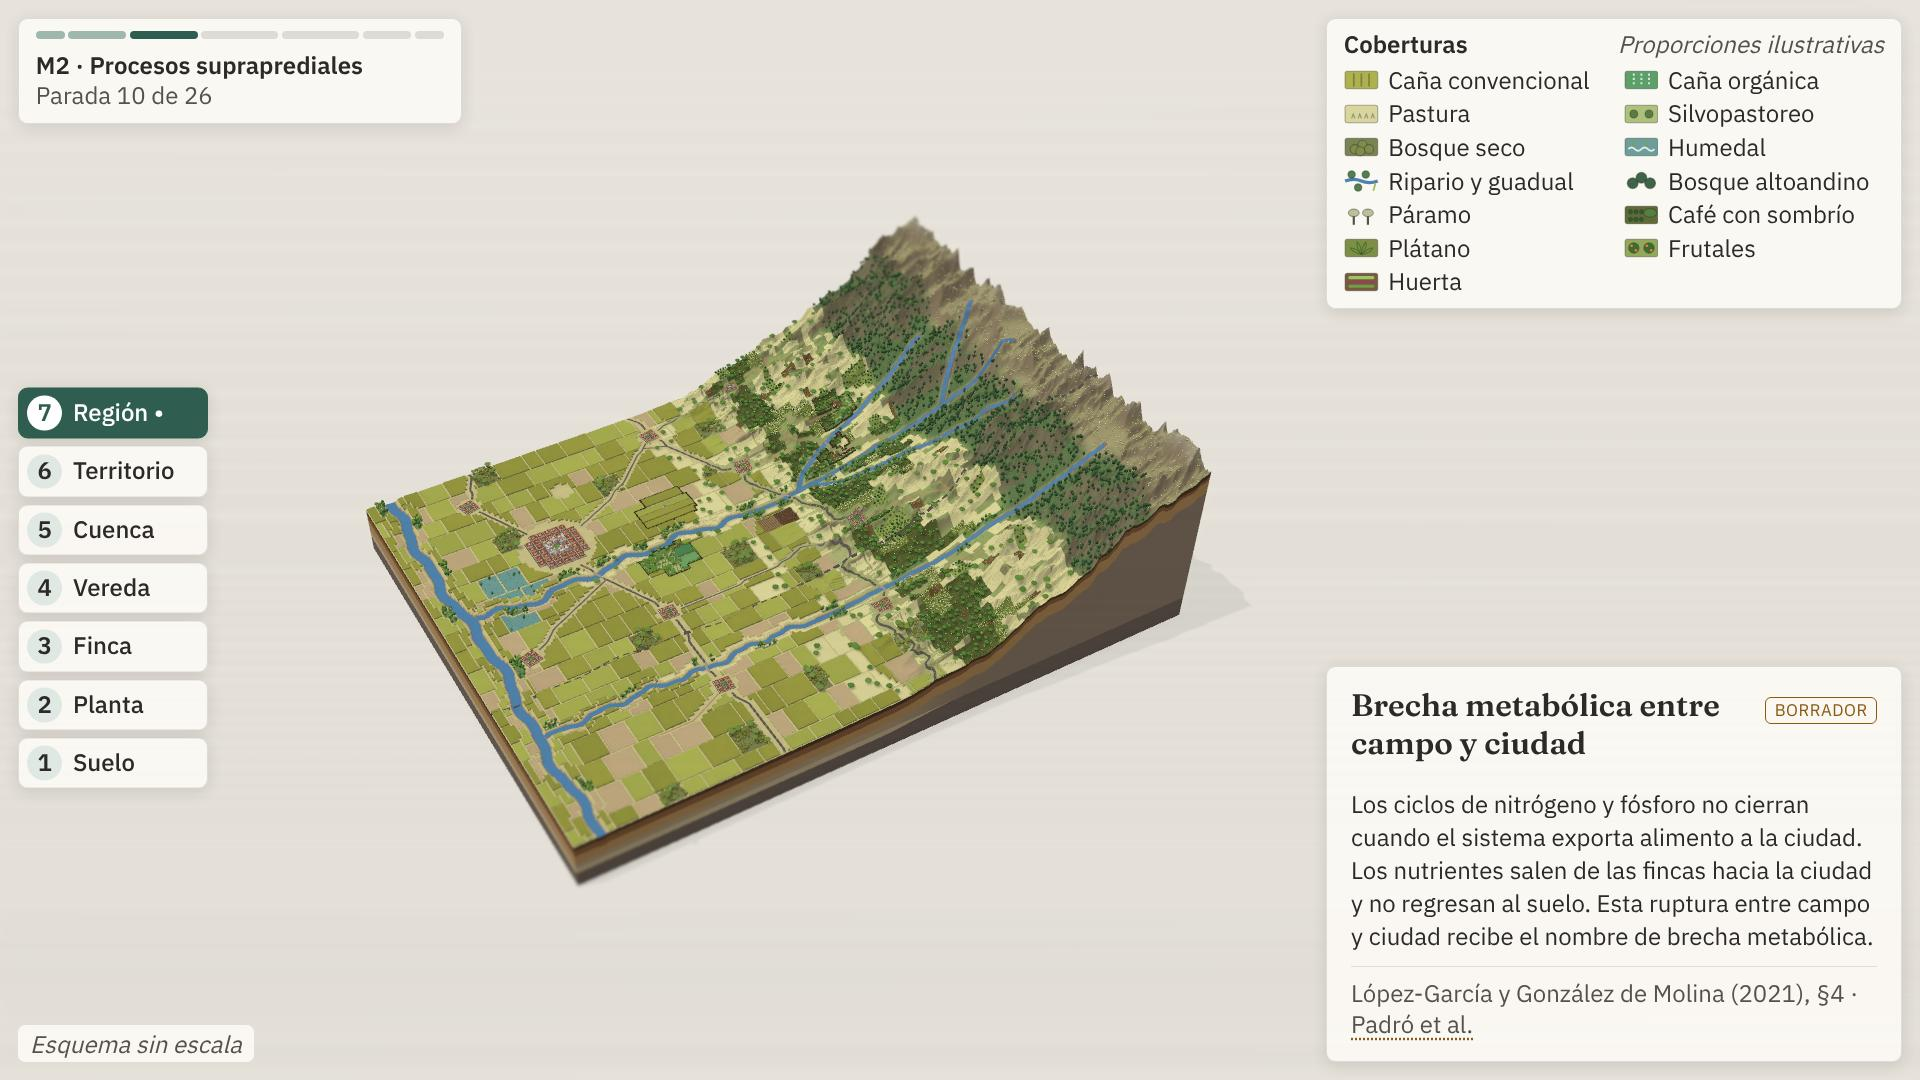
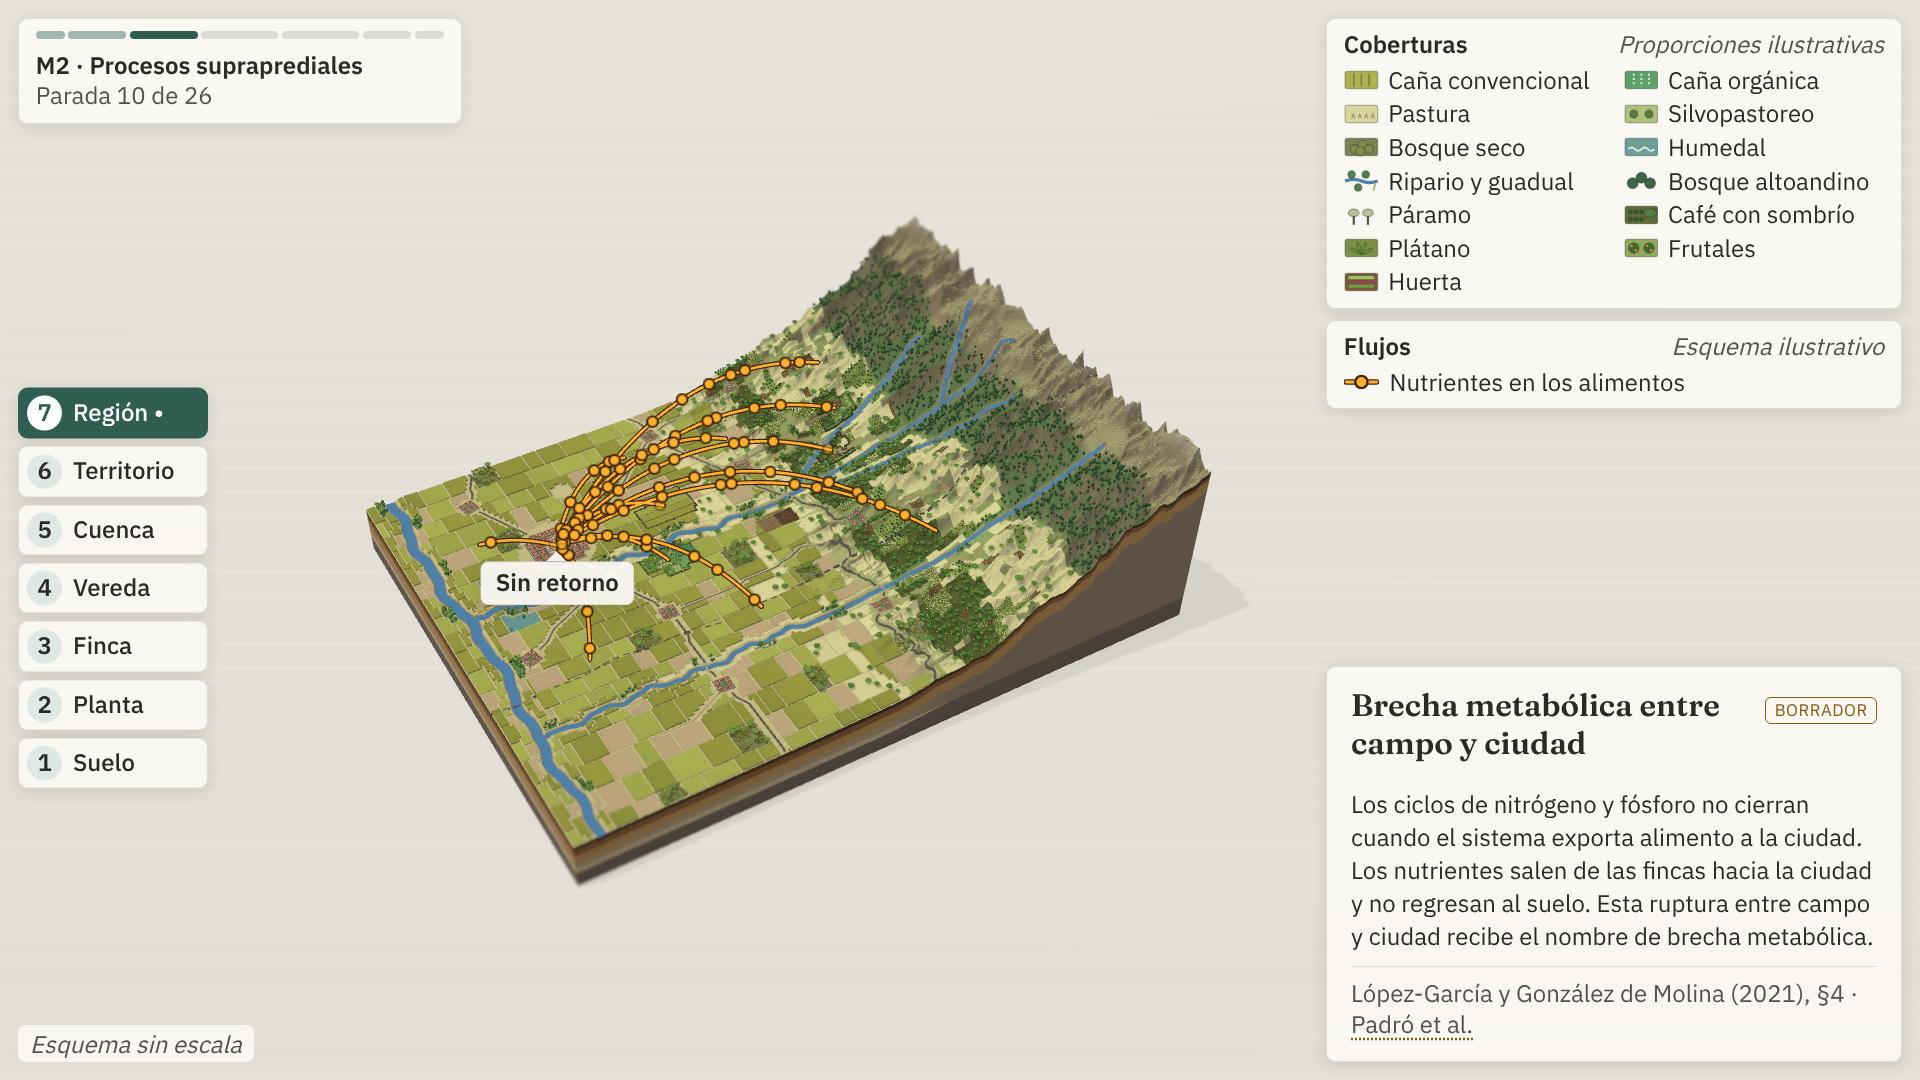
Etapa 8.a: respaldo regenerado con los flujos de P09, P10 y P11
Claude-Session: https://claude.ai/code/session_01UGZzA8Y7dfPqKqxnyKzmWp

Changed region(s): [[0.6875, 0.275, 1.0, 0.3972], [0.25, 0.3361, 0.5, 0.6111], [0.4062, 0.3056, 0.4375, 0.3361]]

diff --git a/respaldo/index.html b/respaldo/index.html
@@ -3,7 +3,7 @@
   <head>
     <meta charset="utf-8" />
     <meta name="viewport" content="width=device-width, initial-scale=1" />
-    <meta name="generator" content="npm run respaldo · 2026-11-14 · contenido cb7df4e2eed7" />
+    <meta name="generator" content="npm run respaldo · 2026-11-15 · contenido cb7df4e2eed7" />
     <title>Respaldo del escenario territorial</title>
     <link rel="icon" href="data:," />
     <style>
@@ -17,7 +17,7 @@
   <body>
     <img id="diapositiva" alt="" />
     <div id="ayuda">Respaldo en imágenes · flechas, espacio, Av Pág y Re Pág · 0 a 6 momentos · F pantalla completa</div>
-    <script>window.RESPALDO = {"diapositivas":[{"src":"capturas/P01.jpg","parada":"P01","paso":0,"momento":"M0","titulo":"Ficha de sesión"},{"src":"capturas/P02.jpg","parada":"P02","paso":0,"momento":"M0","titulo":"Pregunta detonante y situación de partida"},{"src":"capturas/P03-1.jpg","parada":"P03","paso":0,"momento":"M1","titulo":"Niveles de organización"},{"src":"capturas/P03-2.jpg","parada":"P03","paso":1,"momento":"M1","titulo":"Niveles de organización"},{"src":"capturas/P03-3.jpg","parada":"P03","paso":2,"momento":"M1","titulo":"Niveles de organización"},{"src":"capturas/P03-4.jpg","parada":"P03","paso":3,"momento":"M1","titulo":"Niveles de organización"},{"src":"capturas/P04-1.jpg","parada":"P04","paso":0,"momento":"M1","titulo":"Agroecosistema menor y agroecosistema mayor"},{"src":"capturas/P04-2.jpg","parada":"P04","paso":1,"momento":"M1","titulo":"Agroecosistema menor y agroecosistema mayor"},{"src":"capturas/P05-1.jpg","parada":"P05","paso":0,"momento":"M1","titulo":"Estructura Agroecológica Principal"},{"src":"capturas/P05-2.jpg","parada":"P05","paso":1,"momento":"M1","titulo":"Estructura Agroecológica Principal"},{"src":"capturas/P05-3.jpg","parada":"P05","paso":2,"momento":"M1","titulo":"Estructura Agroecológica Principal"},{"src":"capturas/P06.jpg","parada":"P06","paso":0,"momento":"M1","titulo":"Finca faro en el plano"},{"src":"capturas/P07.jpg","parada":"P07","paso":0,"momento":"M2","titulo":"Biota del suelo"},{"src":"capturas/P08.jpg","parada":"P08","paso":0,"momento":"M2","titulo":"Control biológico y polinización"},{"src":"capturas/P09.jpg","parada":"P09","paso":0,"momento":"M2","titulo":"Agua y sedimentos en la cuenca"},{"src":"capturas/P10.jpg","parada":"P10","paso":0,"momento":"M2","titulo":"Brecha metabólica entre campo y ciudad"},{"src":"capturas/P11.jpg","parada":"P11","paso":0,"momento":"M2","titulo":"Semillas en red de custodios"},{"src":"capturas/P12.jpg","parada":"P12","paso":0,"momento":"M2","titulo":"Escala mínima de cada proceso"},{"src":"capturas/P13.jpg","parada":"P13","paso":0,"momento":"M3","titulo":"Límite y sujeto de decisión"},{"src":"capturas/P14-1.jpg","parada":"P14","paso":0,"momento":"M3","titulo":"Cuatro lecturas del territorio"},{"src":"capturas/P14-2.jpg","parada":"P14","paso":1,"momento":"M3","titulo":"Cuatro lecturas del territorio"},{"src":"capturas/P14-3.jpg","parada":"P14","paso":2,"momento":"M3","titulo":"Cuatro lecturas del territorio"},{"src":"capturas/P14-4.jpg","parada":"P14","paso":3,"momento":"M3","titulo":"Cuatro lecturas del territorio"},{"src":"capturas/P15.jpg","parada":"P15","paso":0,"momento":"M3","titulo":"Bloqueo del régimen"},{"src":"capturas/P16-1.jpg","parada":"P16","paso":0,"momento":"M3","titulo":"El paisaje como registro"},{"src":"capturas/P16-2.jpg","parada":"P16","paso":1,"momento":"M3","titulo":"El paisaje como registro"},{"src":"capturas/P16-3.jpg","parada":"P16","paso":2,"momento":"M3","titulo":"El paisaje como registro"},{"src":"capturas/P17.jpg","parada":"P17","paso":0,"momento":"M3","titulo":"Escalamiento sin territorialización"},{"src":"capturas/P18.jpg","parada":"P18","paso":0,"momento":"M4","titulo":"Siete mercados desarticulados"},{"src":"capturas/P19.jpg","parada":"P19","paso":0,"momento":"M4","titulo":"Actividad de condiciones de territorialización"},{"src":"capturas/P20.jpg","parada":"P20","paso":0,"momento":"M4","titulo":"Red de mercados desde 2009"},{"src":"capturas/P21.jpg","parada":"P21","paso":0,"momento":"M4","titulo":"Sujeto plural y circuitos cortos"},{"src":"capturas/P22.jpg","parada":"P22","paso":0,"momento":"M5","titulo":"Índice EAP de tres fincas tipo"},{"src":"capturas/P23.jpg","parada":"P23","paso":0,"momento":"M5","titulo":"MESMIS y TAPE"},{"src":"capturas/P24.jpg","parada":"P24","paso":0,"momento":"M5","titulo":"Soberanía de los datos"},{"src":"capturas/P25.jpg","parada":"P25","paso":0,"momento":"M6","titulo":"Objetivo territorial e instrumento predial"},{"src":"capturas/P26.jpg","parada":"P26","paso":0,"momento":"M6","titulo":"Tarea auténtica y retorno a la pregunta"}],"huella":"cb7df4e2eed7","fecha":"2026-11-14"};</script>
+    <script>window.RESPALDO = {"diapositivas":[{"src":"capturas/P01.jpg","parada":"P01","paso":0,"momento":"M0","titulo":"Ficha de sesión"},{"src":"capturas/P02.jpg","parada":"P02","paso":0,"momento":"M0","titulo":"Pregunta detonante y situación de partida"},{"src":"capturas/P03-1.jpg","parada":"P03","paso":0,"momento":"M1","titulo":"Niveles de organización"},{"src":"capturas/P03-2.jpg","parada":"P03","paso":1,"momento":"M1","titulo":"Niveles de organización"},{"src":"capturas/P03-3.jpg","parada":"P03","paso":2,"momento":"M1","titulo":"Niveles de organización"},{"src":"capturas/P03-4.jpg","parada":"P03","paso":3,"momento":"M1","titulo":"Niveles de organización"},{"src":"capturas/P04-1.jpg","parada":"P04","paso":0,"momento":"M1","titulo":"Agroecosistema menor y agroecosistema mayor"},{"src":"capturas/P04-2.jpg","parada":"P04","paso":1,"momento":"M1","titulo":"Agroecosistema menor y agroecosistema mayor"},{"src":"capturas/P05-1.jpg","parada":"P05","paso":0,"momento":"M1","titulo":"Estructura Agroecológica Principal"},{"src":"capturas/P05-2.jpg","parada":"P05","paso":1,"momento":"M1","titulo":"Estructura Agroecológica Principal"},{"src":"capturas/P05-3.jpg","parada":"P05","paso":2,"momento":"M1","titulo":"Estructura Agroecológica Principal"},{"src":"capturas/P06.jpg","parada":"P06","paso":0,"momento":"M1","titulo":"Finca faro en el plano"},{"src":"capturas/P07.jpg","parada":"P07","paso":0,"momento":"M2","titulo":"Biota del suelo"},{"src":"capturas/P08.jpg","parada":"P08","paso":0,"momento":"M2","titulo":"Control biológico y polinización"},{"src":"capturas/P09.jpg","parada":"P09","paso":0,"momento":"M2","titulo":"Agua y sedimentos en la cuenca"},{"src":"capturas/P10.jpg","parada":"P10","paso":0,"momento":"M2","titulo":"Brecha metabólica entre campo y ciudad"},{"src":"capturas/P11.jpg","parada":"P11","paso":0,"momento":"M2","titulo":"Semillas en red de custodios"},{"src":"capturas/P12.jpg","parada":"P12","paso":0,"momento":"M2","titulo":"Escala mínima de cada proceso"},{"src":"capturas/P13.jpg","parada":"P13","paso":0,"momento":"M3","titulo":"Límite y sujeto de decisión"},{"src":"capturas/P14-1.jpg","parada":"P14","paso":0,"momento":"M3","titulo":"Cuatro lecturas del territorio"},{"src":"capturas/P14-2.jpg","parada":"P14","paso":1,"momento":"M3","titulo":"Cuatro lecturas del territorio"},{"src":"capturas/P14-3.jpg","parada":"P14","paso":2,"momento":"M3","titulo":"Cuatro lecturas del territorio"},{"src":"capturas/P14-4.jpg","parada":"P14","paso":3,"momento":"M3","titulo":"Cuatro lecturas del territorio"},{"src":"capturas/P15.jpg","parada":"P15","paso":0,"momento":"M3","titulo":"Bloqueo del régimen"},{"src":"capturas/P16-1.jpg","parada":"P16","paso":0,"momento":"M3","titulo":"El paisaje como registro"},{"src":"capturas/P16-2.jpg","parada":"P16","paso":1,"momento":"M3","titulo":"El paisaje como registro"},{"src":"capturas/P16-3.jpg","parada":"P16","paso":2,"momento":"M3","titulo":"El paisaje como registro"},{"src":"capturas/P17.jpg","parada":"P17","paso":0,"momento":"M3","titulo":"Escalamiento sin territorialización"},{"src":"capturas/P18.jpg","parada":"P18","paso":0,"momento":"M4","titulo":"Siete mercados desarticulados"},{"src":"capturas/P19.jpg","parada":"P19","paso":0,"momento":"M4","titulo":"Actividad de condiciones de territorialización"},{"src":"capturas/P20.jpg","parada":"P20","paso":0,"momento":"M4","titulo":"Red de mercados desde 2009"},{"src":"capturas/P21.jpg","parada":"P21","paso":0,"momento":"M4","titulo":"Sujeto plural y circuitos cortos"},{"src":"capturas/P22.jpg","parada":"P22","paso":0,"momento":"M5","titulo":"Índice EAP de tres fincas tipo"},{"src":"capturas/P23.jpg","parada":"P23","paso":0,"momento":"M5","titulo":"MESMIS y TAPE"},{"src":"capturas/P24.jpg","parada":"P24","paso":0,"momento":"M5","titulo":"Soberanía de los datos"},{"src":"capturas/P25.jpg","parada":"P25","paso":0,"momento":"M6","titulo":"Objetivo territorial e instrumento predial"},{"src":"capturas/P26.jpg","parada":"P26","paso":0,"momento":"M6","titulo":"Tarea auténtica y retorno a la pregunta"}],"huella":"cb7df4e2eed7","fecha":"2026-11-15"};</script>
     <script>(function codigo() {
   const D = window.RESPALDO.diapositivas;
   const img = document.getElementById('diapositiva');

diff --git a/respaldo/notas.md b/respaldo/notas.md
@@ -5,7 +5,7 @@ Archivo generado por `npm run respaldo` a partir de `contenido/paradas.json`; no
 - Guion: 40 min; ensayo objetivo: 36 min; tolerancia: 1 min.
 - Paradas saltables (decisión D6): P12, P15, P23.
 - Respaldo: 37 imágenes (una por parada y por paso). Teclas: flechas, espacio, Av Pág y Re Pág; 0 a 6 para los momentos; Inicio y Fin; F para pantalla completa. El hash `#p=P14&paso=1` abre una diapositiva.
-- Generado: 2026-11-14; huella del contenido: `cb7df4e2eed7`.
+- Generado: 2026-11-15; huella del contenido: `cb7df4e2eed7`.
 
 ## M0 · Encuadre (3 min, 0:00 a 3:00)
 
